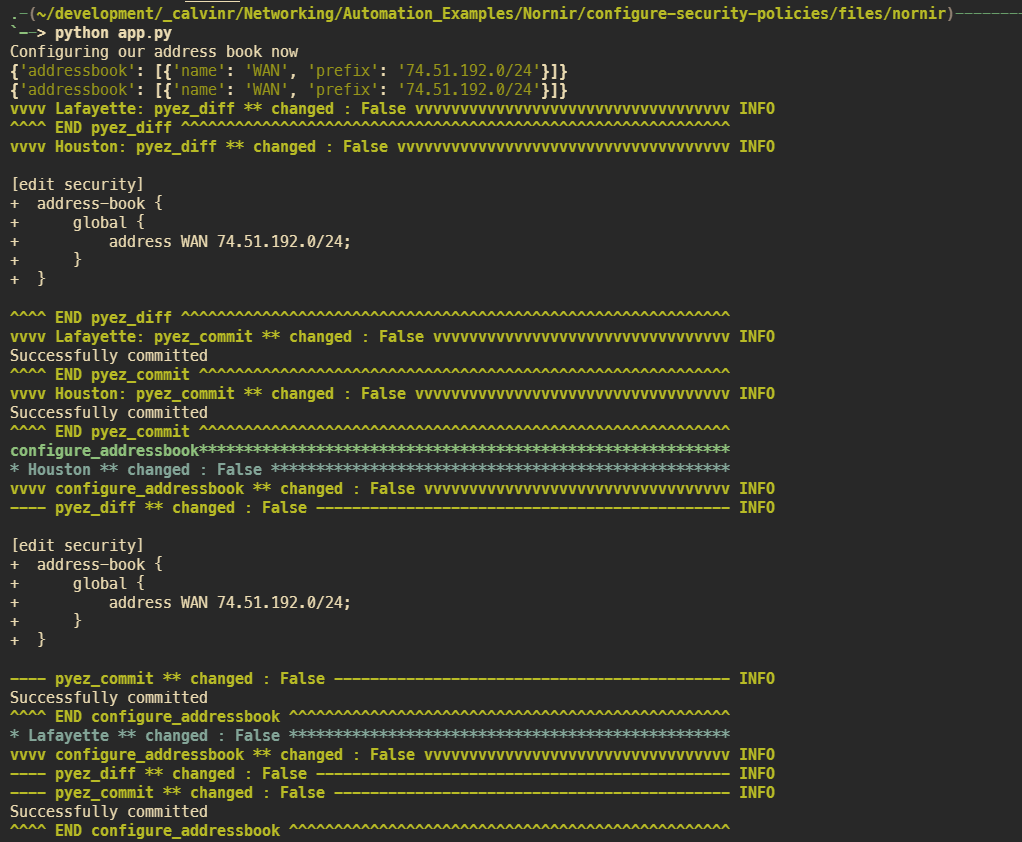
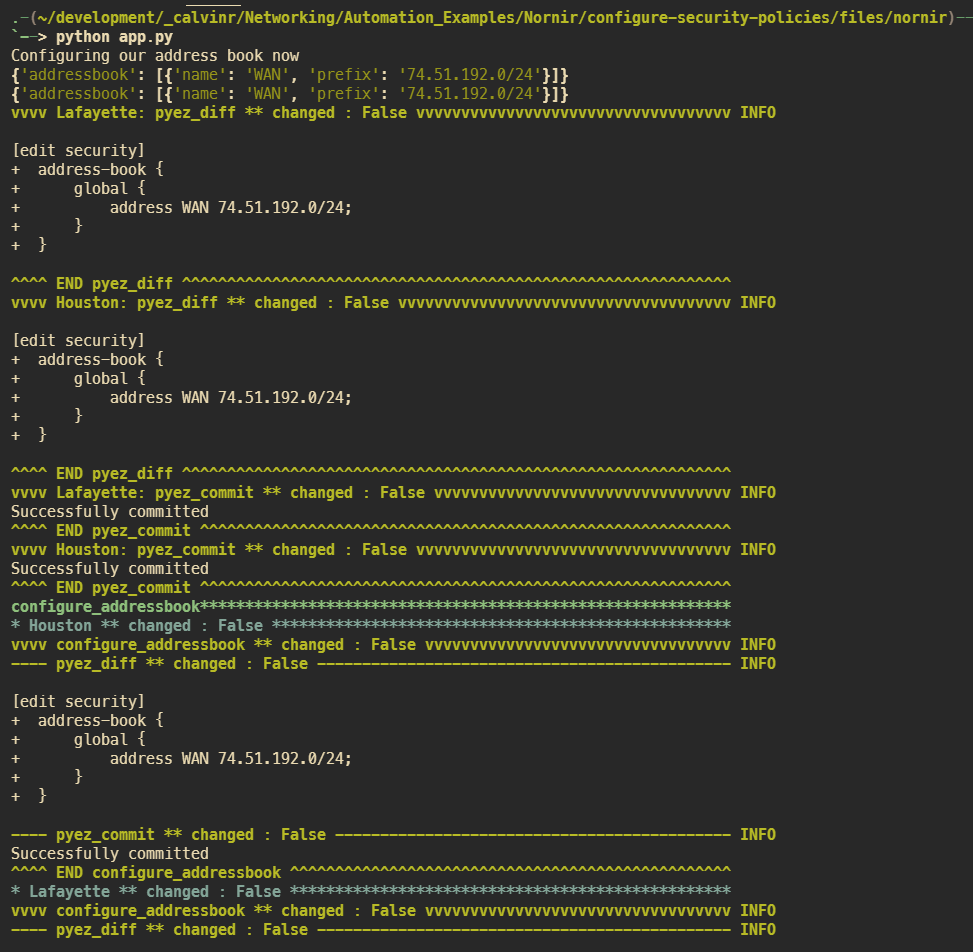
update with new images

Changed region(s): [[0.0, 0.0, 0.9866, 1.0], [0.2467, 0.2162, 0.3392, 0.247], [0.7091, 0.8029, 0.7708, 0.8337]]

diff --git a/files/docs/execute_with_python.rst b/files/docs/execute_with_python.rst
@@ -43,20 +43,12 @@ Always, always, always strive to use virtual environments when working with Pyth
 Execute script
 ==============
 
-Execute either the synchronous or asynchronous script after you have updated them with your device parameters
+Execute the script with python from your local shell.
 
 
-.. code-block:: bash
+.. image:: ../images/python_addressbook.png
+   :width: 600
 
-    $ cd files/nornir
-    $ python app.py
-    
-    192.168.105.137
-    <rpc-reply xmlns:junos="http://xml.juniper.net/junos/21.2R0/junos" xmlns="urn:ietf:params:xml:ns:netconf:base:1.0" message-id="101">
-    <ok/>
-    </rpc-reply>
 
-    192.168.105.146
-    <rpc-reply xmlns:junos="http://xml.juniper.net/junos/21.2R0/junos" xmlns="urn:ietf:params:xml:ns:netconf:base:1.0" message-id="101">
-    <ok/>
-    </rpc-reply>
+.. image:: ../images/python_policy.png
+   :width: 600
